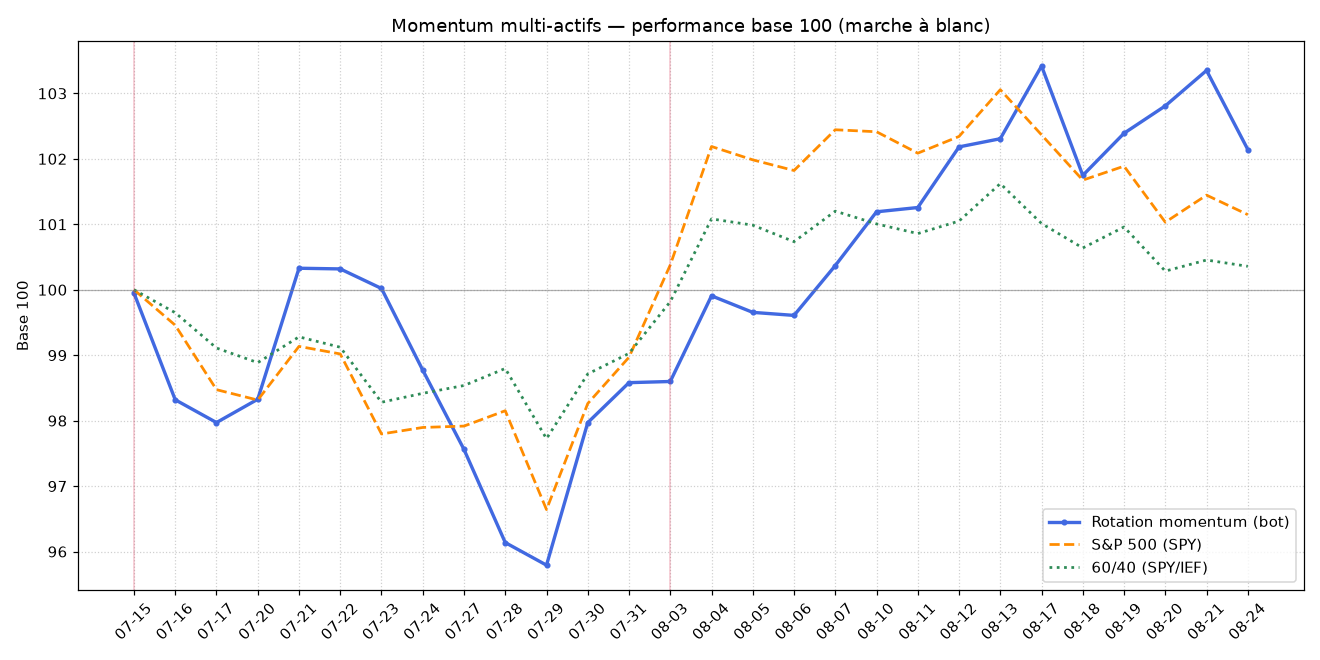
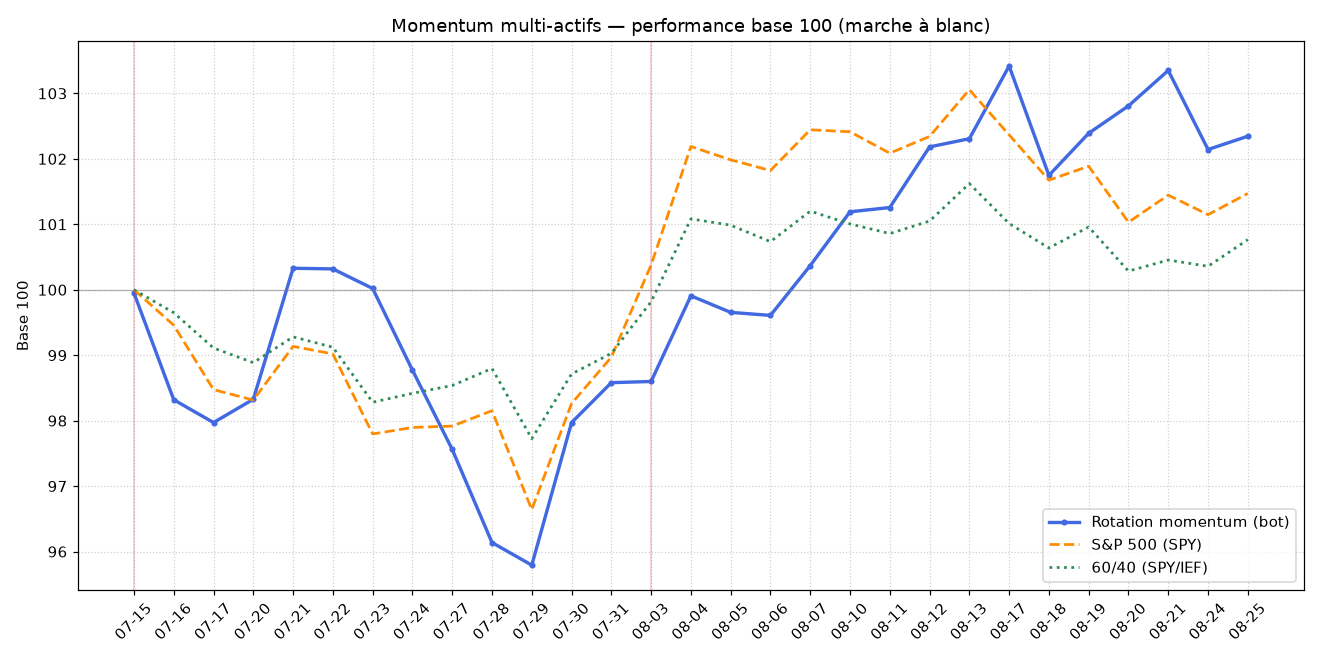
🧭 Passage quotidien du bot momentum [skip ci]

diff --git a/daily_report.md b/daily_report.md
@@ -1,47 +1,51 @@
-# 🧭 Rotation momentum multi-actifs — 2026-08-24
+# 🧭 Rotation momentum multi-actifs — 2026-08-25
 
 ## 💼 Situation
-- **Valeur du portefeuille : 10,214.25 $** (+2.14% depuis le départ)
-- Benchmark S&P 500 : +1.15% — Benchmark 60/40 : +0.36%
-- Régime mécanique : **offensif** — VIX : 15.9
+- **Valeur du portefeuille : 10,234.56 $** (+2.35% depuis le départ)
+- Benchmark S&P 500 : +1.47% — Benchmark 60/40 : +0.77%
+- Régime mécanique : **offensif** — VIX : 15.4
 - Frais cumulés depuis le départ : 5.03 $
 
 ## 📌 Positions
 | ETF | Nom | Valeur | Prix | Prix de revient |
 |---|---|---:|---:|---:|
-| **DBC** | Matières premières (panier large) | 3,521.04 $ | 30.94 $ | 28.79 $ |
-| **EEM** | Actions émergentes | 3,359.10 $ | 66.11 $ | 65.57 $ |
-| **QQQ** | Nasdaq 100 (tech US) | 3,278.66 $ | 706.32 $ | 717.74 $ |
+| **DBC** | Matières premières (panier large) | 3,463.00 $ | 30.43 $ | 28.79 $ |
+| **EEM** | Actions émergentes | 3,417.03 $ | 67.25 $ | 65.57 $ |
+| **QQQ** | Nasdaq 100 (tech US) | 3,299.08 $ | 710.72 $ | 717.74 $ |
 
 ## 📊 Classement momentum du jour
 | Rang | ETF | Score | 3 mois | 6 mois | 12 mois | Momentum absolu |
 |---|---|---:|---:|---:|---:|:---:|
-| #1 | **DBC** 📌 | +23.9% | +1.3% | +25.0% | +45.4% | ✅ |
-| #2 | **EEM** 📌 | +14.8% | +0.9% | +7.8% | +35.8% | ✅ |
-| #3 | **QQQ** 📌 | +14.1% | -1.5% | +17.7% | +26.0% | ✅ |
-| #4 | **SPY** | +12.2% | +2.7% | +12.5% | +21.5% | ✅ |
-| #5 | **EFA** | +10.7% | +5.5% | +5.0% | +21.6% | ✅ |
-| #6 | **GLD** | +10.2% | +3.1% | -11.3% | +38.9% | ✅ |
-| #7 | **VNQ** | +7.9% | +3.3% | +6.5% | +13.8% | ✅ |
-| #8 | **TLT** | -2.5% | -1.4% | -5.9% | -0.1% | ❌ |
-| refuge | **IEF** | -0.4% | +0.1% | -2.7% | +1.5% | ❌ |
+| #1 | **DBC** 📌 | +22.3% | +1.3% | +23.1% | +42.5% | ✅ |
+| #2 | **EEM** 📌 | +14.1% | -1.2% | +8.0% | +35.4% | ✅ |
+| #3 | **QQQ** 📌 | +13.2% | -2.6% | +17.2% | +24.9% | ✅ |
+| #4 | **SPY** | +11.4% | +2.3% | +12.0% | +20.0% | ✅ |
+| #5 | **EFA** | +10.5% | +5.1% | +5.6% | +20.7% | ✅ |
+| #6 | **GLD** | +10.5% | +3.4% | -9.8% | +37.8% | ✅ |
+| #7 | **VNQ** | +7.1% | +3.0% | +6.4% | +11.8% | ✅ |
+| #8 | **TLT** | -1.8% | -0.8% | -5.0% | +0.3% | ❌ |
+| refuge | **IEF** | -0.1% | +0.2% | -2.1% | +1.5% | ❌ |
 
 📌 = détenu — ✅/❌ = momentum absolu vs T-Bills (BIL)
 
 ## 🧠 L'œil de l'analyste (IA)
-**Attentisme et essoufflement du momentum avant Jackson Hole** — régime perçu : `neutre`
+**Taux haussiers : essoufflement tech et émergent à court terme.** — régime perçu : `neutre`
 
-Le portefeuille maintient mécaniquement son positionnement offensif sur DBC, EEM et QQQ, surfant sur un robuste momentum à 12 mois et générant une surperformance face au S&P 500. Toutefois, l'analyse de la dynamique à 3 mois révèle un net essoufflement : le Nasdaq 100 (QQQ) recule de 1,5 %, tandis que les matières premières (DBC) et les émergents (EEM) stagnent à peine au-dessus de zéro. Ce tassement reflète la nervosité macroéconomique actuelle. Les marchés retiennent leur souffle avant le discours très attendu de Warsh à Jackson Hole, qui pourrait redéfinir la trajectoire de la Fed alors que sa crédibilité est ouvertement questionnée par la presse financière. Parallèlement, les nouvelles sanctions américaines et l'anticipation des résultats de Nvidia pèsent sur la tech et l'appétit pour le risque. Les rendements obligataires restent résilients (momentum absolu toujours négatif pour TLT et IEF), interdisant pour l'heure tout repli mécanique vers les Treasuries. À une semaine de la rotation de septembre, la structure interne du marché montre un pivot potentiel : le S&P 500 (SPY) et les actions internationales (EFA) affichent une bien meilleure résistance à court terme et menacent directement les actifs actuellement détenus.
+Le portefeuille reste mécaniquement investi à 100 % en actifs risqués (DBC, EEM, QQQ), mais le classement momentum révèle de fortes tensions sous-jacentes. La première place des matières premières (DBC) traduit des pressions inflationnistes persistantes, en parfaite résonance avec l'actualité macroéconomique : la Fed évoque de nouvelles hausses de taux face à une inflation tenace. Conséquence logique, les rendements obligataires grimpent et maintiennent les obligations (TLT, IEF) en momentum absolu négatif, fermant la porte à un repli défensif.
+
+Une divergence majeure se dessine toutefois sur nos positions. Bien que QQQ et EEM conservent le podium grâce à leur historique à 6 et 12 mois, leur momentum à 3 mois vire au rouge (-2,6 % pour QQQ, -1,2 % pour EEM), pénalisés par la hausse des coûts d'emprunt. À l'inverse, le S&P 500 (SPY, #4) montre une résilience supérieure à court terme (+2,3 % sur 3 mois) et talonne le Nasdaq (score de 11,4 % vs 13,2 %).
+
+À une semaine de la rotation, le maintien du QQQ est précaire et dépendra intimement du symposium de Jackson Hole et du catalyseur binaire des résultats de Nvidia.
 
 **Risques :**
-- ⚠ Déception sur les résultats de Nvidia entraînant un décrochage de la tech US (QQQ), déjà fragilisée sur le trimestre écoulé.
-- ⚠ Discours restrictif de Warsh à Jackson Hole ou rebond de l'inflation PCE, figeant les taux à des niveaux pénalisants pour les émergents (EEM).
-- ⚠ Hausse de la volatilité sur les matières premières (DBC) liée aux annonces de durcissement des sanctions américaines et géopolitiques.
+- ⚠ Choc hawkish à Jackson Hole propulsant les rendements obligataires, ce qui pénaliserait simultanément les poches QQQ et EEM.
+- ⚠ Déception sur les résultats de Nvidia provoquant une chute brutale du Nasdaq avant la date de rotation mensuelle.
+- ⚠ Baisse prolongée du pétrole (WTI sous 84$) qui viendrait éroder la première place de l'ETF DBC.
 
 **À surveiller :**
-- 👁 Le resserrement de l'écart de score entre QQQ (14,1 %) et SPY (12,2 %) avant la rotation mensuelle du 1er septembre.
-- 👁 Le discours du président de la Fed (Warsh) à Jackson Hole et la publication de l'indice PCE de base américain cette semaine.
-- 👁 L'évolution du momentum absolu de l'IEF, actuellement à -0,4 %, qui reste la clé d'un basculement défensif de la stratégie si les actifs risqués venaient à chuter.
+- 👁 Basculement SPY/QQQ : le SPY (#4) pourrait mécaniquement remplacer le QQQ (#3) si le rebond technologique échoue.
+- 👁 Déclarations de Jerome Powell à Jackson Hole concernant la crédibilité de la Fed et le niveau terminal des taux.
+- 👁 Réaction du marché aux résultats trimestriels de Nvidia.
 
 ---
 *Rapport généré automatiquement — expérience à blanc, aucun argent réel, ceci n'est pas un conseil en investissement.*
